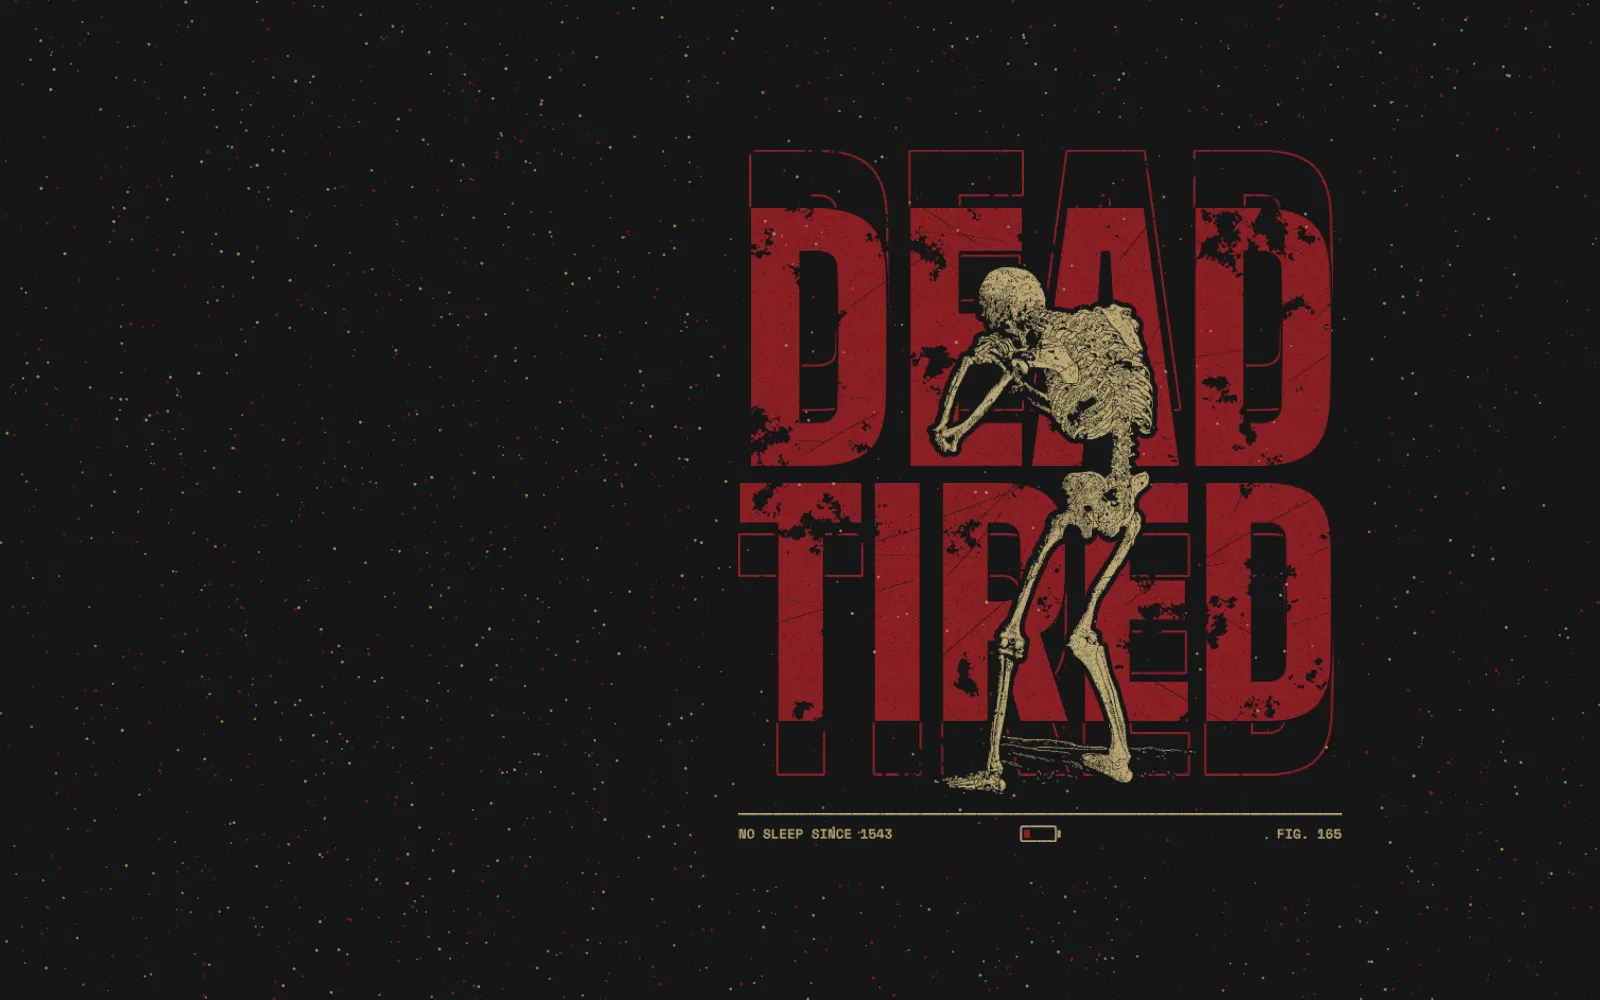
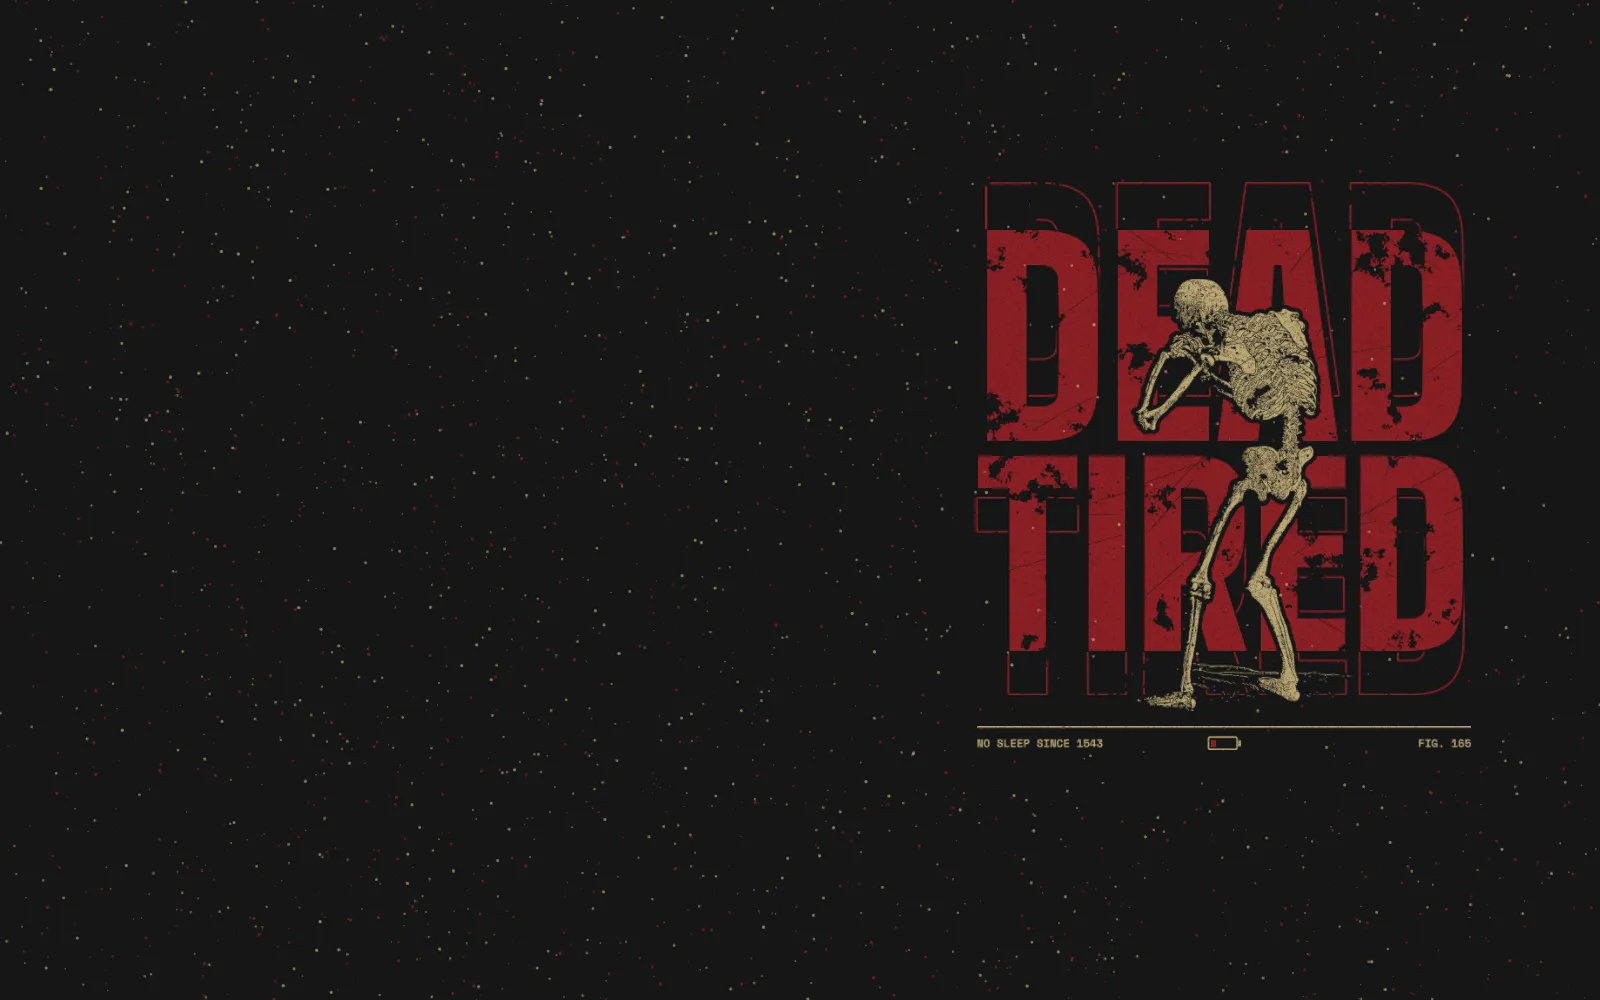
fix: move the DEAD TIRED print clear of the chapter title on wide screens

diff --git a/src/worlds/layers.js b/src/worlds/layers.js
@@ -6,6 +6,9 @@ import { parseLayerManifest } from '../lib/layer-manifest.js';
 // An "exploded print": a design's layers float apart along Z and slide together into the finished piece.
 const STACK_HEIGHT = 2.0; // world units for the full canvas height
 const SPREAD = 0.24; // gap between neighbouring layers when fully exploded (larger pushes the front layers into the camera)
+const WIDE_SCALE = 0.82; // wide screens: largest print scale (1 = fills 90% of the height)
+const WIDE_SHIFT = 0.53; // wide screens: print centre, as a fraction of the half-width right of centre
+const WIDE_LIFT = 0.08; // wide screens: raise the stack so the exploded bottom bar stays above the pill
 const DEFAULT_DUST = ['#bca775', '#8c1f25'];
 const HEX = /^#[0-9a-f]{6}$/i;
 
@@ -136,10 +139,12 @@ export default {
         dustUniforms.uScale.value = dpr * (height / 900);
         const halfH = Math.tan(THREE.MathUtils.degToRad(camera.fov / 2)) * camera.position.z;
         const halfW = halfH * camera.aspect;
-        const lift = camera.aspect < 0.8 ? 0.25 : 0; // phones: raise the print clear of the title
-        stack.scale.setScalar(Math.min(1, (halfW * (camera.aspect < 0.8 ? 0.74 : 0.9)) / (stackHalfWidth + 0.05), (halfH * 0.9 - lift) / (STACK_HEIGHT / 2)));
+        const wide = camera.aspect > 1.2;
+        const lift = camera.aspect < 0.8 ? 0.25 : wide ? WIDE_LIFT : 0; // phones: raise the print clear of the title; wide: clear of the pill
+        const cap = wide ? WIDE_SCALE : 1; // wide screens: a smaller print, so it sits right of the big chapter title
+        stack.scale.setScalar(Math.min(cap, (halfW * (camera.aspect < 0.8 ? 0.74 : 0.9)) / (stackHalfWidth + 0.05), (halfH * 0.9 - lift) / (STACK_HEIGHT / 2)));
         stack.position.y = lift;
-        stack.position.x = camera.aspect > 1.2 ? halfW * 0.3 : 0; // keep the bottom-left title clear on wide screens
+        stack.position.x = wide ? halfW * WIDE_SHIFT : 0; // wide: push the print right, clear of the bottom-left title
       },
       dispose() {
         parts.forEach((part) => {
